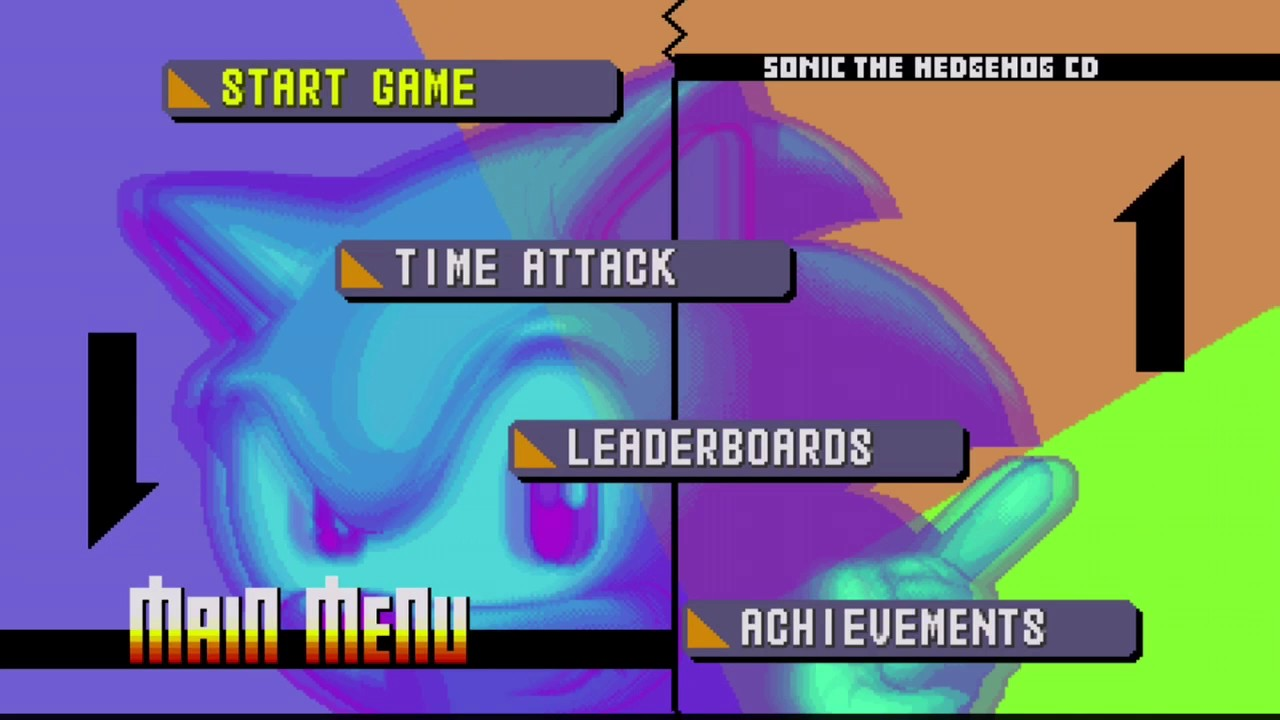
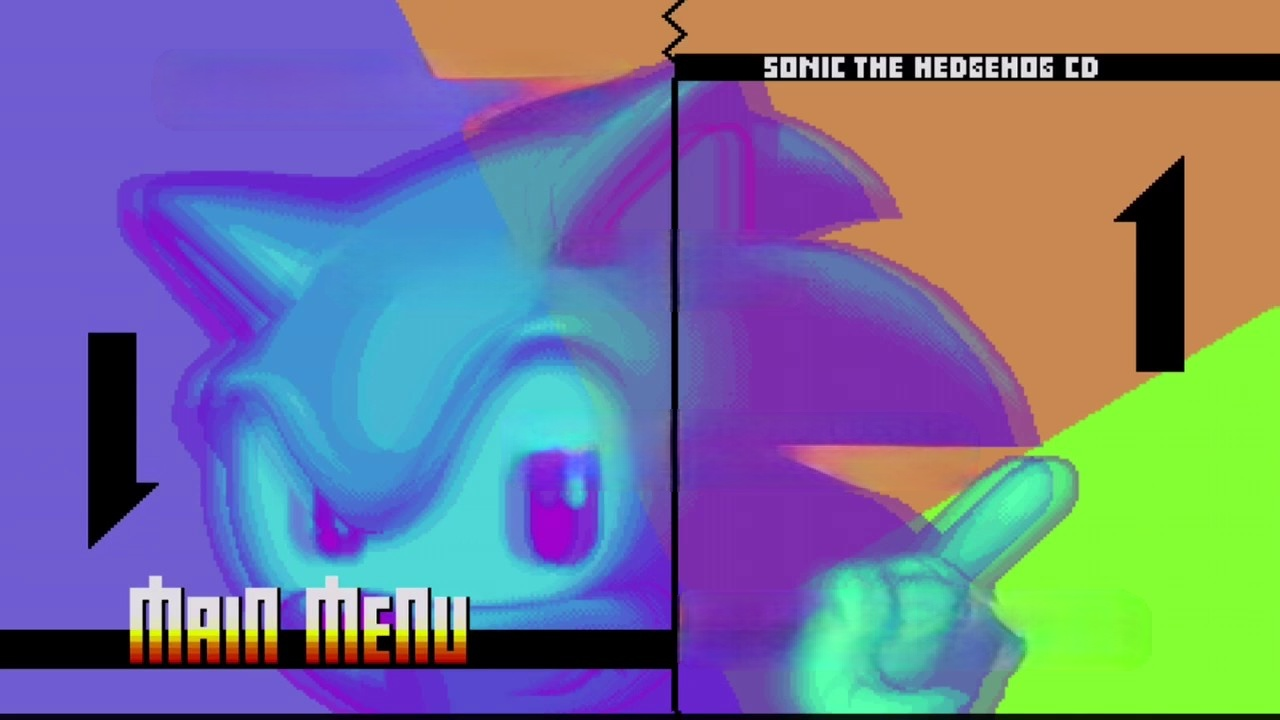
feat: button

diff --git a/src/MenuSelector.cpp b/src/MenuSelector.cpp
@@ -1,0 +1,57 @@
+#include <iostream>
+
+#include "Game.h"
+#include "Sprite.h"
+#include "Button.h"
+#include "MenuSelector.h"
+#include "InputManager.h"
+#include "Vec2.h"
+
+MenuSelector::MenuSelector(GameObject& assoc) : Component(assoc), selected(0), nButtons(2) {
+    
+    Button* buttonNewGame = new Button(Vec2(500, 200),"resources/img/MenuButton.png", "NEW GAME");
+    Button* buttonLoadGame = new Button(Vec2(500, 400),"resources/img/MenuButton.png", "LOAD GAME");
+    Button* buttonCreditsGame = new Button(Vec2(500, 600),"resources/img/MenuButton.png", "CREDITS");
+
+    buttons.push_back(*buttonNewGame);
+    buttons.push_back(*buttonLoadGame);
+    buttons.push_back(*buttonCreditsGame);
+}
+
+MenuSelector::MenuSelector(GameObject& assoc, std::string filePath) : MenuSelector(assoc) {
+    associated.AddComponent((std::shared_ptr<Sprite>)new Sprite(associated, filePath));
+}
+
+MenuSelector::~MenuSelector() {
+
+}
+
+void MenuSelector::Update(float dt) {
+    
+    if (InputManager::GetInstance().KeyPress(UP_ARROW_KEY) && selected == 0) {
+        selected = nButtons;
+        
+    }
+    
+    else if (InputManager::GetInstance().KeyPress(UP_ARROW_KEY) && selected > 0) {
+        selected--;
+        
+    }
+    else if (InputManager::GetInstance().KeyPress(DOWN_ARROW_KEY) && selected < nButtons) {
+        selected++;
+        
+    }
+    
+    else if (InputManager::GetInstance().KeyPress(DOWN_ARROW_KEY) && selected == nButtons) {
+        selected = 0;
+        
+    }
+    Button* selectedButton = &buttons[selected];
+}
+
+void MenuSelector::Render() {
+}
+
+bool MenuSelector::Is(std::string type) {
+    return type == "MenuSelector";
+}

diff --git a/src/states/MenuState.cpp b/src/states/MenuState.cpp
@@ -1,10 +1,12 @@
 #include "Camera.h"
+#include "MenuSelector.h"
 #include "states/MenuState.h"
+#include "states/PuzzleState.h"
 #include "defines/DefineInput.h"
 #include "states/OverworldState.h"
 
 MenuState::MenuState(): State(){
-    
+
     GameObject* titleObj = new GameObject();
 
     Sprite *titleImage= new Sprite(*titleObj, "resources/img/MainMenu.jpg");
@@ -20,17 +22,22 @@ MenuState::~MenuState(){
 
 void MenuState::Update(float dt){
     if ((InputManager::GetInstance().KeyPress(ESCAPE_KEY)) || (InputManager::GetInstance().QuitRequested())){
-        popRequested = true;
+        
         backGraundMusic->Stop();
+        PuzzleState* newState = new PuzzleState(1);
+        Game::GetInstance().Push(newState);
+        popRequested = true;
+
     }
     else if(InputManager::GetInstance().KeyPress(ENTER_KEY) || InputManager::GetInstance().KeyPress(SPACE_KEY)){
         OverworldState* newState = new OverworldState();
         Game::GetInstance().Push(newState);
         backGraundMusic->Stop();
     }
+
     for (int i = 0; i < objectArray.size(); i++) {
         objectArray[i]->Update(dt);
-    }
+    }   
 }
 
 void MenuState::LoadAssets(){
@@ -45,7 +52,12 @@ void MenuState::Render() {
 }
 
 void MenuState::Start(){
-    LoadAssets();
+    
+    GameObject* selectorObj = new GameObject();
+    MenuSelector* selector = new MenuSelector(*selectorObj);
+    selectorObj->AddComponent((std::shared_ptr<MenuSelector>) selector);
+    objectArray.emplace_back(selectorObj);
+
     for (int i = 0; i < (int)objectArray.size(); i++){
         objectArray[i]->Start();
     }

diff --git a/src/Button.cpp b/src/Button.cpp
@@ -1,0 +1,29 @@
+#include "Game.h"
+#include "Button.h"
+#include "Vec2.h"
+
+Button::Button(Vec2 vetor, std::string buttonPath, std::string name) : blinkingText(false), name(name){
+    
+    GameObject *imageObj = new GameObject();
+    this->buttonImage = new Sprite(*imageObj, "resources/img/MenuButton.png");
+    imageObj->AddComponent((std::shared_ptr<Sprite>)  buttonImage);
+    imageObj->box.x = vetor.x;
+    imageObj->box.y = vetor.y;
+
+    GameObject *textObj = new GameObject();
+    this->texto = new Text(*textObj, "resources/font/Base.ttf", 32, TextStyle::BLENDED,name, {200, 200, 200},{0, 0, 0},  blinkingText);
+    
+    textObj->AddComponent((std::shared_ptr<Text>) this->texto);
+    textObj->box.x = vetor.x;
+    textObj->box.y = vetor.y;
+    Game::GetInstance().GetCurrentState().AddObject(imageObj);
+    Game::GetInstance().GetCurrentState().AddObject(textObj);
+}
+
+void Button::Choosed(){
+    buttonImage->SetScale(1.5F);
+}
+
+Button::~Button() {
+    
+}

diff --git a/src/states/PuzzleState.cpp b/src/states/PuzzleState.cpp
@@ -1,10 +1,10 @@
-#include "states/PuzzleState.h"
-#include "InputManager.h"
+#include "Game.h"
 #include "Selector.h"
 #include "FoodItem.h"
 #include "FoodPiece.h"
-
-#include "Game.h"
+#include "InputManager.h"
+#include "states/PuzzleState.h"
+#include "defines/DefineInput.h"
 
 PuzzleState::PuzzleState(int puzzleNumber) : State(){
     GameObject* ui = new GameObject();
@@ -37,6 +37,12 @@ void PuzzleState::Render(){
 
 void PuzzleState::Update(float dt){
     InputManager& iM = InputManager::GetInstance();
+
+
+    if ((InputManager::GetInstance().KeyPress(SPACE_KEY))){
+        popRequested = true;
+        backGraundMusic->Stop();
+    }
 
     if(iM.QuitRequested()) quitRequested = true;
 
@@ -100,7 +106,6 @@ void PuzzleState::Update(float dt){
         }
     }
 }
-
 
 void PuzzleState::Start(){
     LoadAssets();

diff --git a/src/Text.cpp b/src/Text.cpp
@@ -24,17 +24,20 @@ Text::~Text() {
 }
 
 void Text::Update(float dt) { 
-    if(elapsedTime <= 0){
-        if(texture){
-            SDL_DestroyTexture(texture);
-            texture = nullptr;
-            elapsedTime = 2.0F;
+    if(blinking){
+        
+        if(elapsedTime <= 0){
+            if(texture){
+                SDL_DestroyTexture(texture);
+                texture = nullptr;
+                elapsedTime = 2.0F;
+            }else{
+                RemakeTexture();
+                elapsedTime = 8.0F;
+            }
         }else{
-            RemakeTexture();
-            elapsedTime = 8.0F;
+            elapsedTime = elapsedTime - 0.1;
         }
-    }else{
-        elapsedTime = elapsedTime - 0.1;
     }
 }
 

diff --git a/include/MenuSelector.h b/include/MenuSelector.h
@@ -1,0 +1,25 @@
+#ifndef MenuSelector_H
+#define MenuSelector_H
+
+#include <vector>
+#include "Button.h"
+#include "Component.h"
+
+class MenuSelector : public Component {
+    int selected;
+
+public:
+    MenuSelector(GameObject& assoc);
+    MenuSelector(GameObject& assoc, std::string buttonPath);
+    ~MenuSelector();
+
+    int nButtons;
+
+    void Update(float dt);
+    void Render();
+    bool Is(std::string type);
+
+    std::vector<Button> buttons;
+};
+
+#endif

diff --git a/include/Button.h b/include/Button.h
@@ -1,0 +1,23 @@
+#ifndef Button_H
+#define Button_H
+
+#include "Sprite.h"
+#include "Text.h"
+#include "Component.h"
+#include <string>
+
+class Button {
+    public:
+        Button(Vec2 vec, std::string buttonPath, std::string name);
+        ~Button();
+        
+        bool blinkingText;
+        std::string name;
+        
+        void Choosed();
+    
+    private:
+        Text* texto;
+        Sprite*  buttonImage;
+};
+#endif
